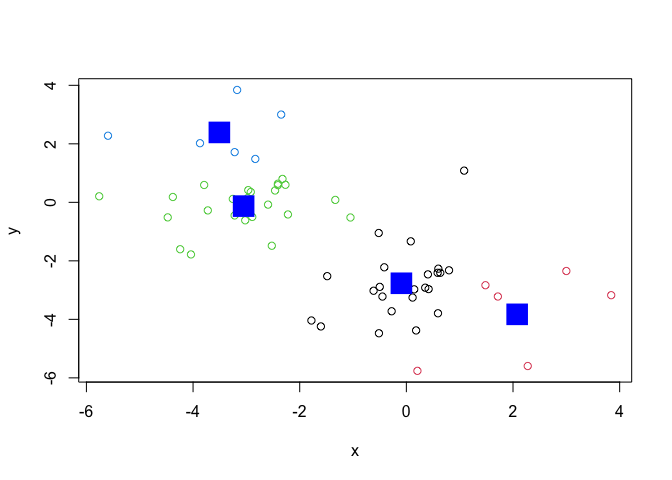
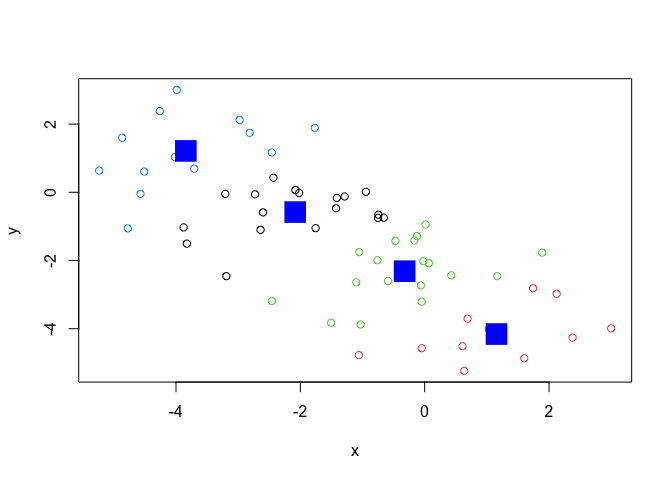
add 7

diff --git a/BIMM 143 Class 7/Class 7- Machine Learning I.md b/BIMM 143 Class 7/Class 7- Machine Learning I.md
@@ -13,8 +13,8 @@ the `rnorm()`function.
 rnorm(10) #Give 10 random numbers from normal distribution 
 ```
 
-     [1]  0.4677429 -0.4317600 -1.3866182 -1.4235840  0.1264112 -0.3392331
-     [7]  0.4976944 -0.2254014 -0.5289110  0.5359701
+     [1] -0.3712770  1.5711673 -0.4842958 -2.2026656 -1.1778002 -0.7740325
+     [7]  1.2524224  0.4752995  0.7936731  0.2257358
 
 ``` r
 hist(rnorm(10000, mean = 3))
@@ -39,13 +39,13 @@ z <- cbind(x,y)
 head(z)
 ```
 
-                 x           y
-    [1,] -2.347571  3.00000000
-    [2,] -3.220514 -0.44842038
-    [3,] -1.333061  0.08280185
-    [4,] -2.890030 -0.49890753
-    [5,] -2.462159  0.40431307
-    [6,] -4.378881  0.18275197
+                 x          y
+    [1,] -3.989076  3.0000000
+    [2,] -1.768201  1.8904317
+    [3,] -2.976361  2.1223585
+    [4,] -1.287896 -0.1233615
+    [5,] -4.260510  2.3789336
+    [6,] -2.432895  0.4278987
 
 ``` r
 plot(z)
@@ -67,20 +67,20 @@ km <- kmeans(z, centers = 2)
 km
 ```
 
-    K-means clustering with 2 clusters of sizes 31, 30
+    K-means clustering with 2 clusters of sizes 29, 32
 
     Cluster means:
-               x         y
-    1 -3.0064231  0.397362
-    2  0.3744827 -3.142762
+               x          y
+    1 -3.0126677  0.2376182
+    2  0.1480706 -2.7975010
 
     Clustering vector:
-     [1] 1 1 1 1 1 1 1 1 1 1 1 1 1 1 1 1 1 1 1 1 1 1 1 1 1 1 1 1 1 1 1 2 2 2 2 2 2 2
-    [39] 2 2 2 2 2 2 2 2 2 2 2 2 2 2 2 2 2 2 2 2 2 2 2
+     [1] 1 1 1 1 1 1 2 1 1 1 1 1 1 1 1 2 1 1 2 1 1 1 2 1 1 1 1 1 1 1 2 2 2 2 2 2 2 2
+    [39] 1 2 2 2 1 2 2 2 2 2 2 2 2 2 2 2 1 2 2 2 2 2 2
 
     Within cluster sum of squares by cluster:
-    [1] 96.5620 78.7881
-     (between_SS / total_SS =  67.6 %)
+    [1]  85.64207 102.45459
+     (between_SS / total_SS =  60.8 %)
 
     Available components:
 
@@ -106,7 +106,7 @@ cluster size?
 km$size
 ```
 
-    [1] 31 30
+    [1] 29 32
 
 cluster assignment/membership?
 
@@ -114,8 +114,8 @@ cluster assignment/membership?
 km$cluster
 ```
 
-     [1] 1 1 1 1 1 1 1 1 1 1 1 1 1 1 1 1 1 1 1 1 1 1 1 1 1 1 1 1 1 1 1 2 2 2 2 2 2 2
-    [39] 2 2 2 2 2 2 2 2 2 2 2 2 2 2 2 2 2 2 2 2 2 2 2
+     [1] 1 1 1 1 1 1 2 1 1 1 1 1 1 1 1 2 1 1 2 1 1 1 2 1 1 1 1 1 1 1 2 2 2 2 2 2 2 2
+    [39] 1 2 2 2 1 2 2 2 2 2 2 2 2 2 2 2 1 2 2 2 2 2 2
 
 cluster center?
 
@@ -123,9 +123,9 @@ cluster center?
 km$centers
 ```
 
-               x         y
-    1 -3.0064231  0.397362
-    2  0.3744827 -3.142762
+               x          y
+    1 -3.0126677  0.2376182
+    2  0.1480706 -2.7975010
 
 > Q. Plot x colored by the kmeans cluster assignment and add cluster
 > centers as blue points
@@ -196,8 +196,8 @@ grps <- cutree(hc, h=8)
 grps
 ```
 
-     [1] 1 1 1 1 1 1 1 1 1 1 1 1 1 1 1 1 1 1 1 1 1 1 1 1 1 1 1 1 1 1 1 2 2 2 2 2 2 2
-    [39] 2 2 2 2 2 2 2 2 2 1 2 2 2 2 2 2 2 2 2 2 1 2 2
+     [1] 1 1 1 1 1 1 1 1 1 1 1 1 1 1 1 1 1 1 1 1 1 1 2 1 1 1 1 1 1 1 1 2 2 2 2 2 1 2
+    [39] 1 2 2 2 1 2 2 1 1 2 2 2 2 2 2 2 1 2 2 1 2 2 2
 
 Can you plot `z` colored by our hclust results:
 
